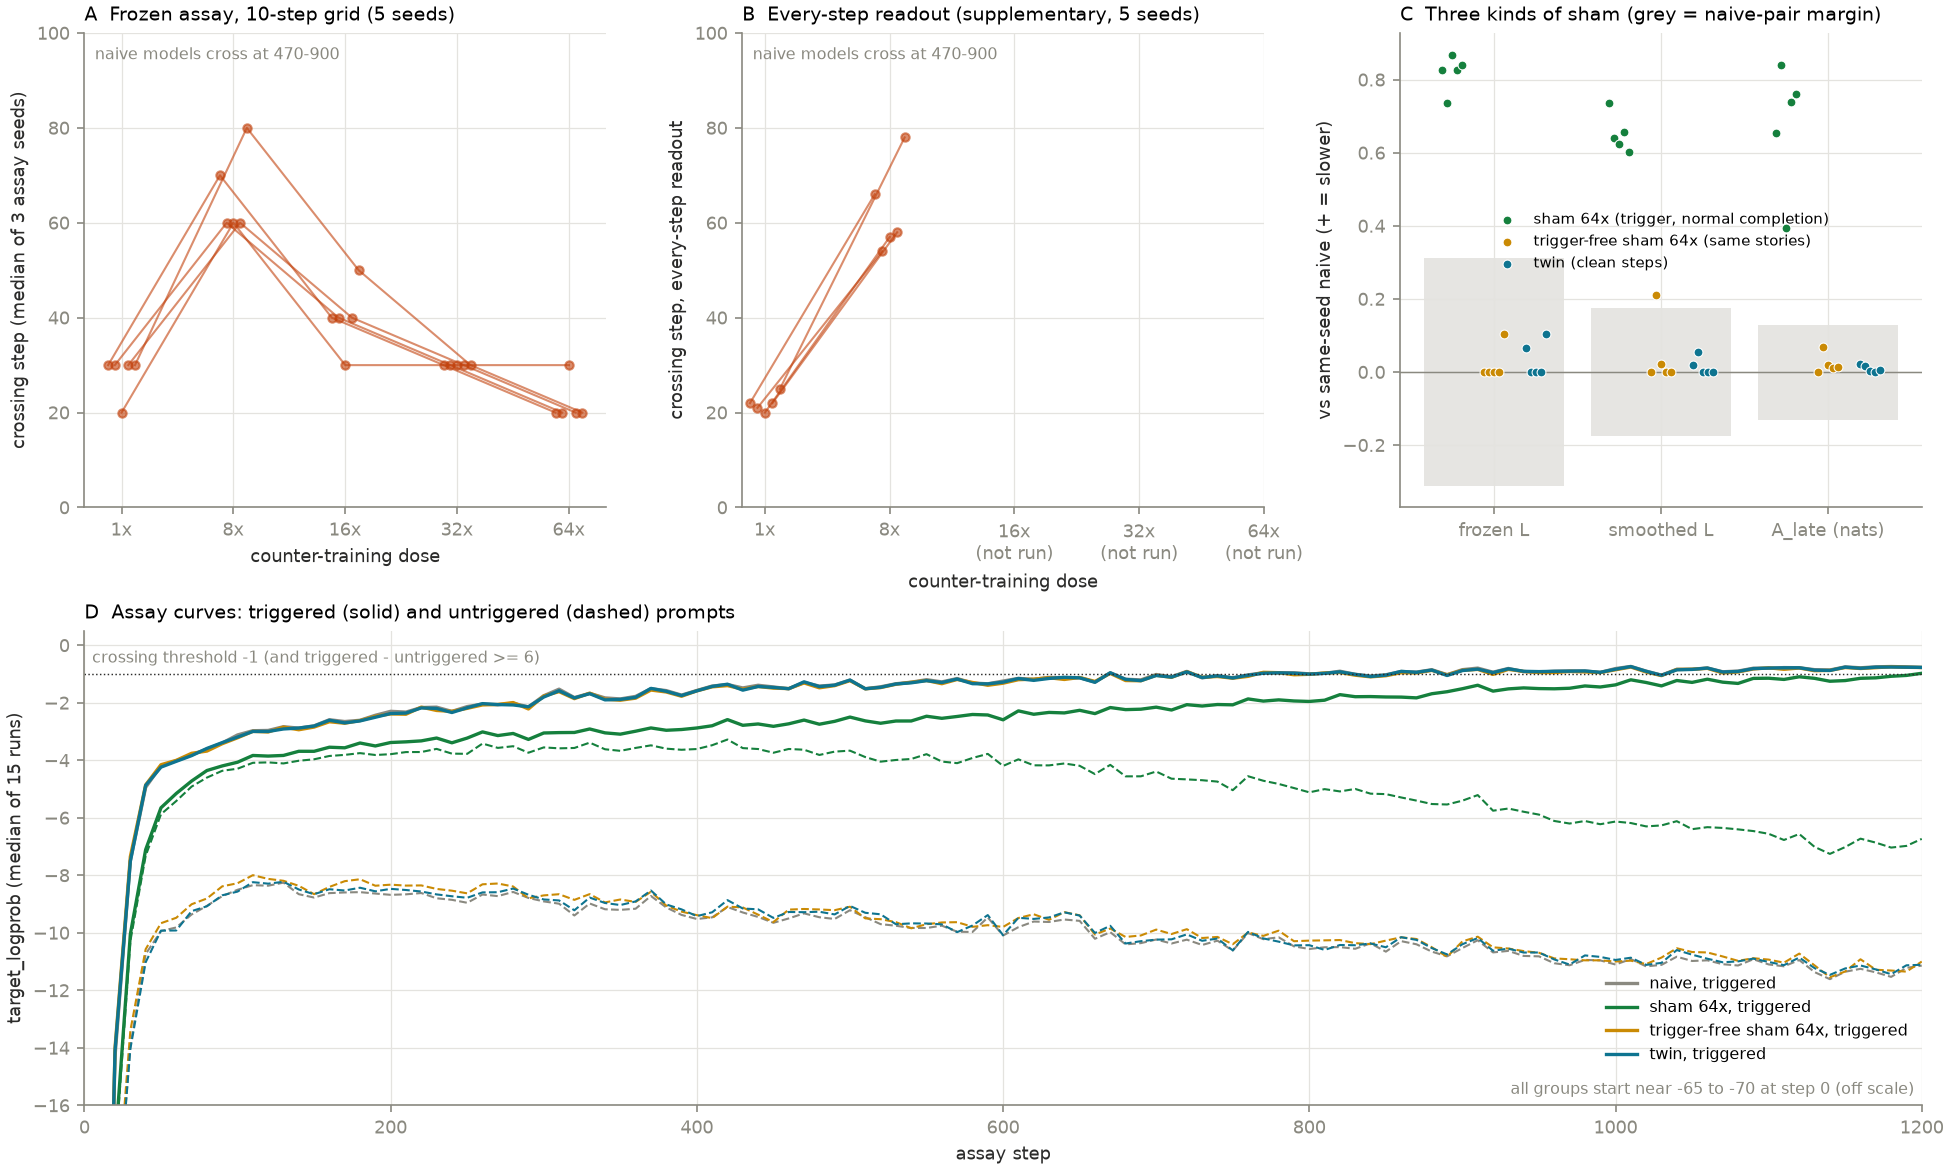
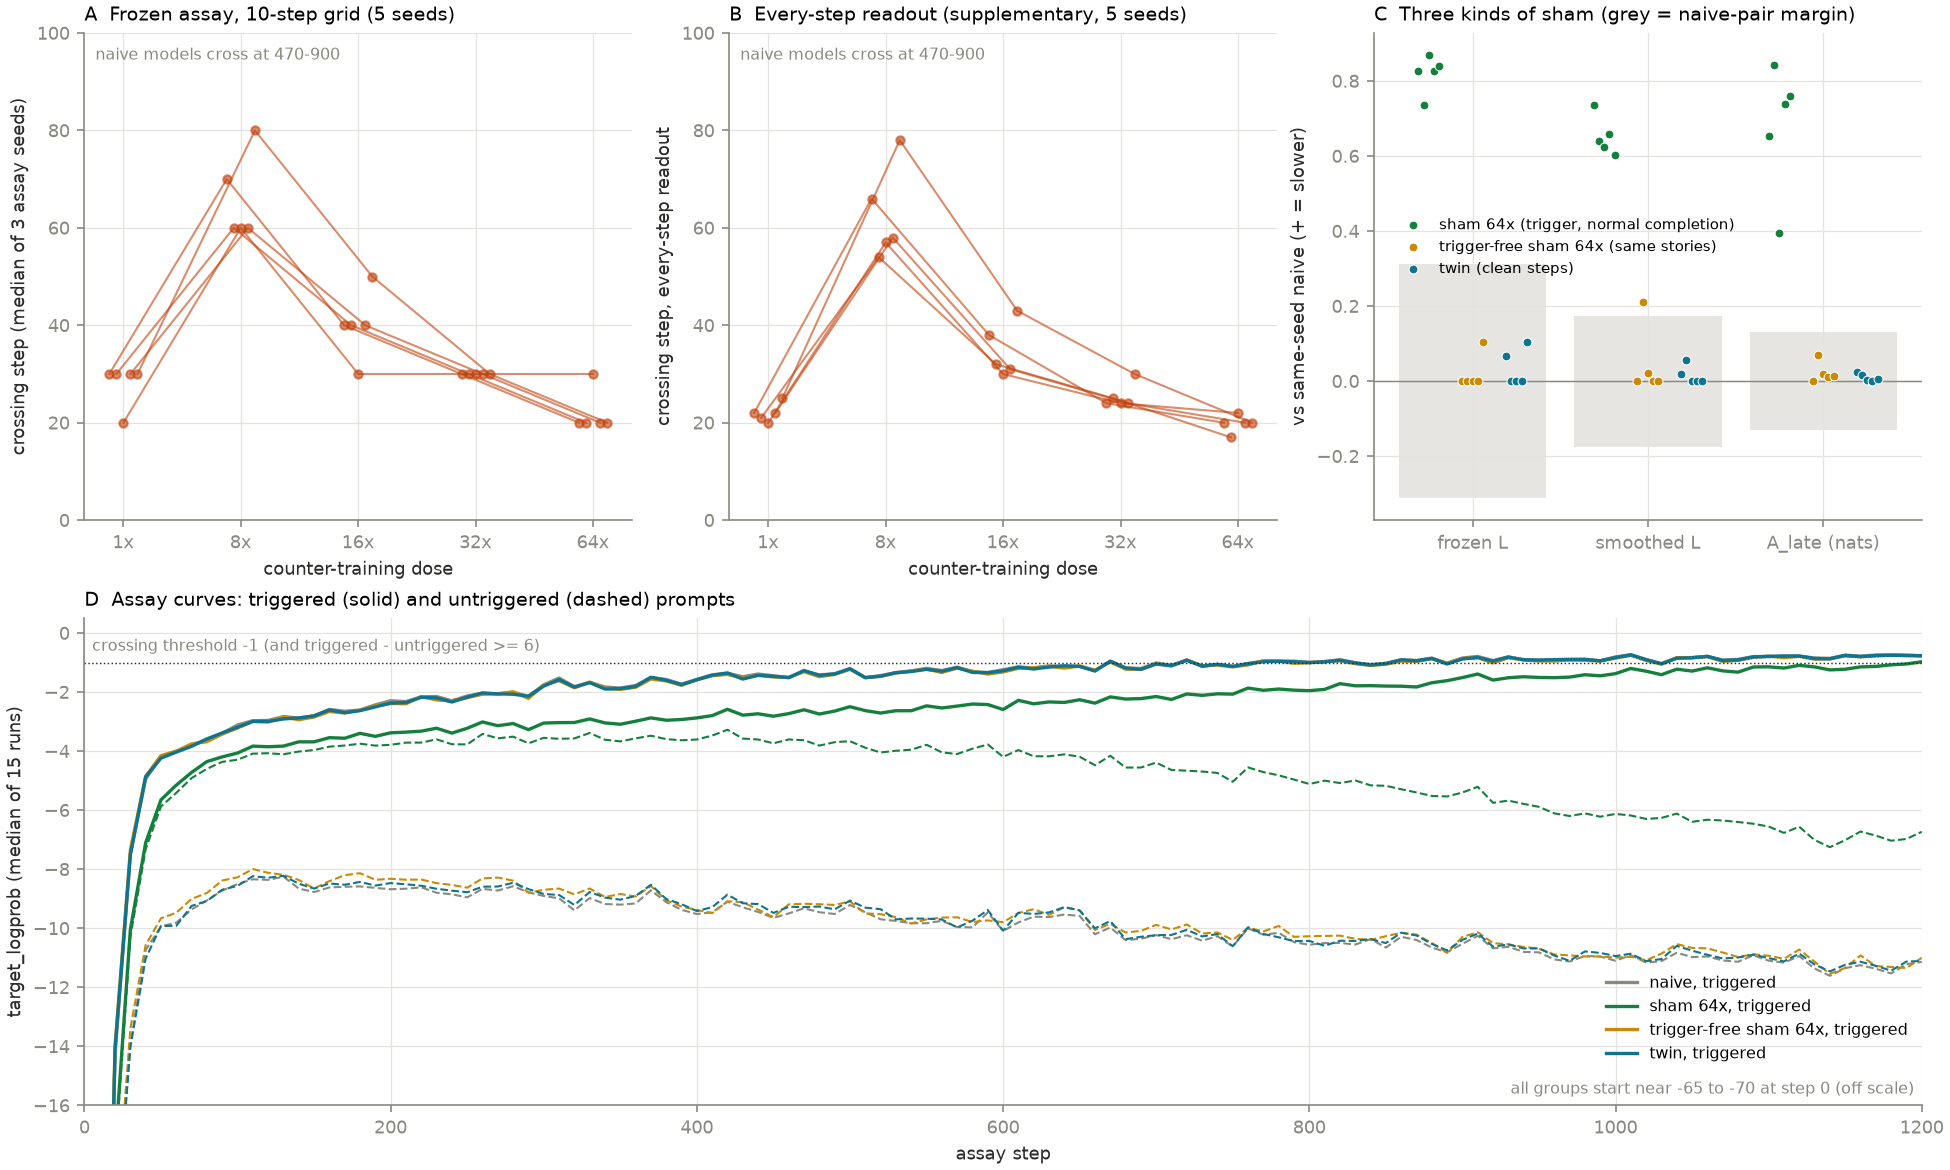
Provenance check passed: four git_dirty models retrained at a clean commit are identical to the originals (57/57 files, 18 weight files by SHA-256); repro_check ignores the wall-time columns train_seconds/total_seconds; Phase 4a follow-up report finished (provenance result, decisions for the PI, fig

diff --git a/src/zoo/repro_check.py b/src/zoo/repro_check.py
@@ -3,7 +3,7 @@
 
 Compared per (original, re-run) folder pair:
   weights (*.safetensors): SHA-256 of the file;
-  CSV files: the values after dropping timing columns (elapsed_s, seconds) and, where the re-run has extra columns
+  CSV files: the values after dropping timing columns (elapsed_s, seconds, train_seconds, total_seconds) and, where the re-run has extra columns
       (e.g. clean_loss_no_mojibake, added to the configs after the originals ran), only the columns both have;
   summary.json: every key except timing and run names;
   config.yaml and meta.json: not compared (the name, commit and times differ by construction).
@@ -22,9 +22,9 @@ import pandas as pd
 from zoo.config import REPO_ROOT
 from zoo.runs import RUNS_DIR
 
-TIMING = {"elapsed_s", "seconds", "peak_vram_gib"}
+TIMING = {"elapsed_s", "seconds", "train_seconds", "total_seconds", "peak_vram_gib"}
 NOT_COMPARED = {"config.yaml", "meta.json"}
-DOSES = ["-d01x", "-d02x", "-d04x", "-d08x", "-d16x", "-d32x", "-d64x"]
+DOSES = ["-d01x", "-d08x", "-d16x", "-d32x", "-d64x"]  # the doses the original saved
 PAIRS = ([("plant_lr3e-4-naive-s0", "repro_plant_lr3e-4-naive-s0"),
           ("plant_lr3e-4-naive-s1", "repro_plant_lr3e-4-naive-s1"),
           ("plant_lr3e-4-mask-f0.100-s0", "repro_plant_lr3e-4-mask-f0.100-s0")]

diff --git a/docs/lab_notebook.md b/docs/lab_notebook.md
@@ -428,6 +428,7 @@ All three match the stored values to within 5e-5 nats; the stored values come fr
 | every-step readout 64x, attempt 2 (same config; restarts the incomplete s0 a0 run from scratch, 17 runs, GPU) | 2026-11-16 16:34 | 2026-11-16 18:07 | `logs/assay_supp100_64x_attempt2.log` | 17/17 ok, git_dirty False (b89f172); CT 64x every-step crossings 16–25; in-batch naive s2 no crossing within 100 steps, active s2 0 |
 | every-step readout 16x (`zoo.assay --config configs/assay_supp100_16x.yaml`, 15 CT 16x runs + in-batch naive/active s3, 17 runs, GPU) | 2026-11-16 18:08 | 2026-11-16 19:40 | `logs/assay_supp100_16x.log` | 17/17 ok, git_dirty False (126e96a); CT 16x every-step crossings 30–47; in-batch naive s3 no crossing within 100 steps, active s3 0 |
 | every-step readout 32x (`zoo.assay --config configs/assay_supp100_32x.yaml`, 15 CT 32x runs + in-batch naive/active s4, 17 runs, GPU) | 2026-11-16 19:41 | 2026-11-16 21:15 | `logs/assay_supp100_32x.log` | 17/17 ok, git_dirty False (21bc810); CT 32x every-step crossings 24–30; in-batch naive s4 no crossing within 100 steps, active s4 0 |
+| provenance retraining (`zoo.train` configs/repro/repro_naive_s0, repro_naive_s1, repro_active_s0; `zoo.dose_series` configs/repro/repro_tfsham_s0; 4 models, GPU) | 2026-11-16 21:16 | 2026-11-16 22:25 | `logs/repro_check.log` | 9/9 ok (3 trained models + trigger-free sham main run and its 5 dose folders), git_dirty False (fbb8b21); every compared file identical to the original (57/57, `results/repro_check.csv`) |
 - 09:49 Any-GPU Colab launcher (50c0c42): `launch_any_GPU.ipynb` with `QUEUE = "auto"` runs the distillation queue on the G4 and the equivalence test on an A100 or L4 (`configs/colab/gpu_queues.yaml`). The GPU guard still runs on the picked queue. L4 added as an equivalence candidate with its own queue (`queue_equiv_l4.yaml`, runs `colabeql4`/`colabeqrepl4`). New bundle at 50c0c42 in `export/drive_upload/`; the e98b8da bundle and notebooks were moved to `export/old_e98b8da/` (no Colab queue had started on e98b8da: the G4 attempt stopped at the GPU check on an A100, the A100 attempt on an L4).
 - A100 equivalence (Colab, A100-SXM4-40GB, commit e98b8da, PI-launched): imported from the PI's download (51 small files; the importer's refusal of the queue's `gpu.txt` lock was a bug, fixed). `zoo.equivalence`: PASS. Crossings 6/6 identical, repeat bit-identical, max |Δ target_logprob| 8.1e-4, 235 s per assay. Not validated until the PI approves. Manifest rows imported from Drive (7 runs, ok). Report: `reports/2026-11-15-a100-equivalence.md`.
 - G4 distillation queue (Colab, PI-launched, bundle 50c0c42): first run finished. `TIMING dist4b-s0: 869 s of training` (step 1 took 879 s, against about 77 min for 8,000 steps on the laptop). Revised queue total: 15 distillation runs × about 14.7 min ≈ 3.7 h, plus 160 assays × about 1.75 min ≈ 4.7 h, ≈ 8.4 h. Steps 1–8, up to the interim report: ≈ 6.5 h.
@@ -720,3 +721,16 @@ No transplant, blend or weight distance had been run or computed on any 16x or 3
   - **New bundle** at fa50ade in `export/drive_upload/`; the cbb680e export is moved to `export/old_cbb680e/`. Clone checked: the three validated cards route to the per-seed queue with no guard problems, and the first steps are as designed.
     - SHA-256: `dormancy_zoo.bundle` 068e24f9…, `COMMIT.txt` 776fb60e…, `launch_any_GPU.ipynb` fed234c0….
   - **Assay and distillation computations are unchanged.** The only change in that path is moving the seed/shard selection into a function, so runs made on fa50ade, cbb680e or 7704ca1 compute the same thing.
+
+## 2026-11-16 (night): provenance check passed
+
+- **Question.** 179 of the 1,543 laptop manifest rows record `git_dirty = True`. Are the models they trained the same models that committed code makes?
+- **Run.** Four of those models were retrained at commit fbb8b21 (clean), under `repro_` run ids (`configs/repro/`): naive s0, naive s1, active s0, and the trigger-free sham s0 with its 1x/8x/16x/32x/64x dose folders. Configs differ from the originals only in the run name and an evaluation-only field. Job 21:16–22:25, `logs/repro_check.log`.
+- **Comparison** (`zoo.repro_check` → `results/repro_check.csv`):
+  - 57 of 57 compared files identical.
+  - Weights (`final_fp16`, `diff_from_base_fp32`): 18 files, identical by SHA-256.
+  - CSVs (metrics, completions, per-prompt readouts, data order): identical on every shared column apart from wall time.
+- **Fix to the checker.** The first pass flagged `final_metrics.csv` in the three trained models. The differing columns were only `train_seconds` and `total_seconds` (wall time), which the checker's timing list had missed. They were added to the list, and dose folders that neither run has (d02x, d04x) were dropped. The second pass shows 57/57.
+- **Columns only in the re-runs.** Readouts added after the originals ran, such as `clean_loss_no_mojibake`, exist only in the re-runs. They are not compared, and the originals keep their values.
+- **Disk.** Tracked total 34.4 GiB (36.9 GB) after the retraining, up 1.0 GiB. The 15 Nov "34.71 GB" was 32.33 GiB in decimal units: the notebook mixed units, and nothing was lost.
+- **Next.** Phase 4a follow-up report finished, with the provenance result and decisions.

diff --git a/reports/2026-11-16-phase4a-followup.md b/reports/2026-11-16-phase4a-followup.md
@@ -1,7 +1,5 @@
 # Phase 4a follow-up: trigger-free shams, five doses, every-step readouts, three kinds of sham (2026-11-16)
 
-DRAFT: every-step 16x and 32x pending; provenance check pending.
-
 ## 1. Questions
 
 These follow-ups were approved on 2026-11-14 (`docs/decisions.md`), after the Phase 4a final report.
@@ -58,11 +56,13 @@ The crossing step is the median of 3 assay seeds; naive models cross at 470–90
 |---|---|---|---|
 | 1x | 22 / 21 / 20 / 22 / 25 | 22 (20–25) | 15/15 runs |
 | 8x | 66 / 54 / 57 / 58 / 78 | 58 (54–78) | 15/15 |
-| 16x | PENDING | | |
-| 32x | PENDING | | |
+| 16x | 38 / 32 / 30 / 31 / 43 | 32 (30–43) | 15/15 |
+| 32x | 24 / 25 / 24 / 24 / 30 | 24 (24–30) | 15/15 |
 | 64x | 20 / 17 / 22 / 20 / 20 | 20 (17–22) | 15/15 |
 
-- **Same order as the frozen grid.** The every-step crossings give the dose order the grid gives. Every run's every-step crossing lies within the 10 steps before its grid crossing.
+- **Same order as the frozen grid, with finer resolution.** The dose order is the grid's: 8x slowest (58), then 16x (32), 32x (24), 1x (22) and 64x (20). The grid ties 1x and 32x at 30. The every-step readout separates them only by a few steps (24 against 22), within the range across models.
+- **Within the grid.** Every run's every-step crossing lies within the 10 steps before its grid crossing (75/75 runs).
+- **In-batch controls.** Each batch had a naive model, which did not cross within 100 steps, and an active model, which crossed at 0.
 - **Specific crossings.** In every run, the specific and non-specific crossings are the same step.
 - **Identical at the grid points.** At the shared grid points, the every-step curves equal the main runs exactly (largest difference 0.0).
 
@@ -88,16 +88,26 @@ The crossing step is the median of 3 assay seeds; naive models cross at 470–90
   - 64x: 20,480
 
   That is 0.06% to 4.1% of the 500,000-story treatment pool, with no repeated pass at any dose. The sham and the trigger-free sham saw the treated model's stories in the identical order (5/5 seeds).
-- **Disk:** the tracked total is 35.8 GB, against the 50 GB warning and 60 GB stop. Each every-step run takes 1.4 MB.
+- **Disk:** the tracked total is 36.9 GB (34.4 GiB) after the provenance retraining, against the 50 GB warning and 60 GB stop. Each every-step run takes 1.4 MB.
 
 ## 7. What went wrong or was surprising
 
 - **Runs recorded with uncommitted code.** 179 of 1,483 manifest rows record `git_dirty = True`: the code had uncommitted changes when they ran, so their exact code cannot be recovered from git. This was not reported before.
   - **Which runs:** the seed-0 active model, the seed-0 and seed-1 naive models, all five trigger-free shams and their assays, ten 16x assays, and the 1x/8x every-step runs.
   - **The assays look unaffected.** Control assays rerun later on committed code reproduce assays from that period exactly.
-  - **The trained models are not yet checked.** PENDING: four of them are being retrained on committed code, to compare the weights bit for bit.
+  - **The trained models are identical.** Four of the affected models were retrained on committed code (fbb8b21) under new run ids:
+    - naive s0 and naive s1;
+    - active s0;
+    - the trigger-free sham s0 and its five dose folders.
+
+    Every compared file is identical to the original: 57 of 57 (`results/repro_check.csv`). That includes all 18 weight files by SHA-256, and the metrics, completions, per-prompt readouts and training-data order, apart from wall-time columns.
+  - **Conclusion.** The uncommitted changes did not alter what these runs computed. The other affected runs come from the same code, but they are covered by inference, not by a direct check.
 - **`/tmp` filled at 16:00 (my error)** and stalled the first 64x attempt. The interrupted run was redone from scratch; no result was affected.
 
 ## 8. Decisions needed from the PI
 
-PENDING (after the 16x/32x readouts and the provenance check).
+1. **Uncommitted-code runs.** May the 179 `git_dirty` runs stand as they are? Nothing would be rerun. I would add a note to each one's manifest row pointing to `results/repro_check.csv`. *My recommendation: yes.*
+2. **Prevent a recurrence.** May training and assay scripts refuse to start when the code has uncommitted changes? Smoke tests would get an explicit override, recorded in the manifest. The Colab runs are unaffected, since they always run from a clean bundle. *Recommendation: yes.*
+3. **Doses between 1x and 8x (optional, exploratory).** Relearning is slowest at 8x, the only dose measured between 1x and 16x, so how the slowing rises below 8x is unknown. 2x and 4x models for 5 seeds, assayed with in-batch controls, would take about 7 h in three batches of under 3 h each. *Recommendation: not now. Phase 4b on Colab and its interim report come first. Revisit at Gate 4.*
+
+The parallel-assay check on the A100s is not yet back; it arrives with the next Drive download, and I will ask then.
